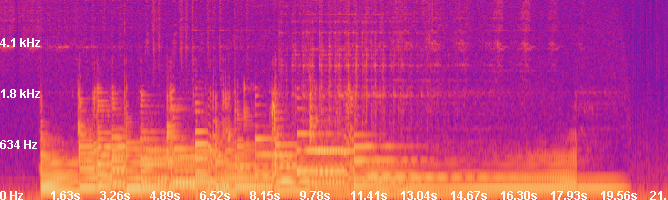
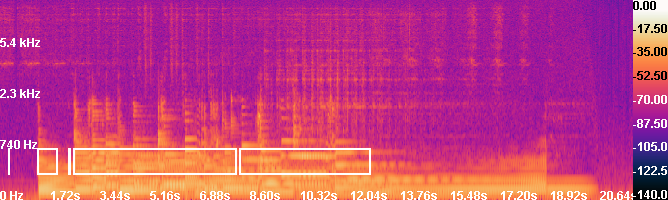
update readme.md

diff --git a/readme.md b/readme.md
@@ -10,14 +10,16 @@ public static void main(String[] args){
             ScaleFilter.Type.mel,
             //应用汉宁窗，并使用SunFFTTransformer做傅立叶变换，
             new SunFFTTransformer(bufferSize, "hann"));
+    spc.addNormalRange(135, 296, -100, -35);
     spc.run();
+    spc.validate();
     //获取频谱数据，下标为坐标系后的频率坐标，可以转换为频率
     //hz = spc.indexToHz(hz,length);
     //index = spc.hzToIndex(idx,length);
-    spc.getFrequenceData();
+    //spc.getFrequenceData();
     //绘制频谱图
     //采样率除以2为最高频率
-    spc.drawSpctrogram(0, spc.getAudioFormat().getSampleRate()/2, 1024, 800, -1);
+    spc.drawSpctrogram("test.png",0, spc.getAudioFormat().getSampleRate()/2, 1024, 800, -1);
 }
 ```
 
